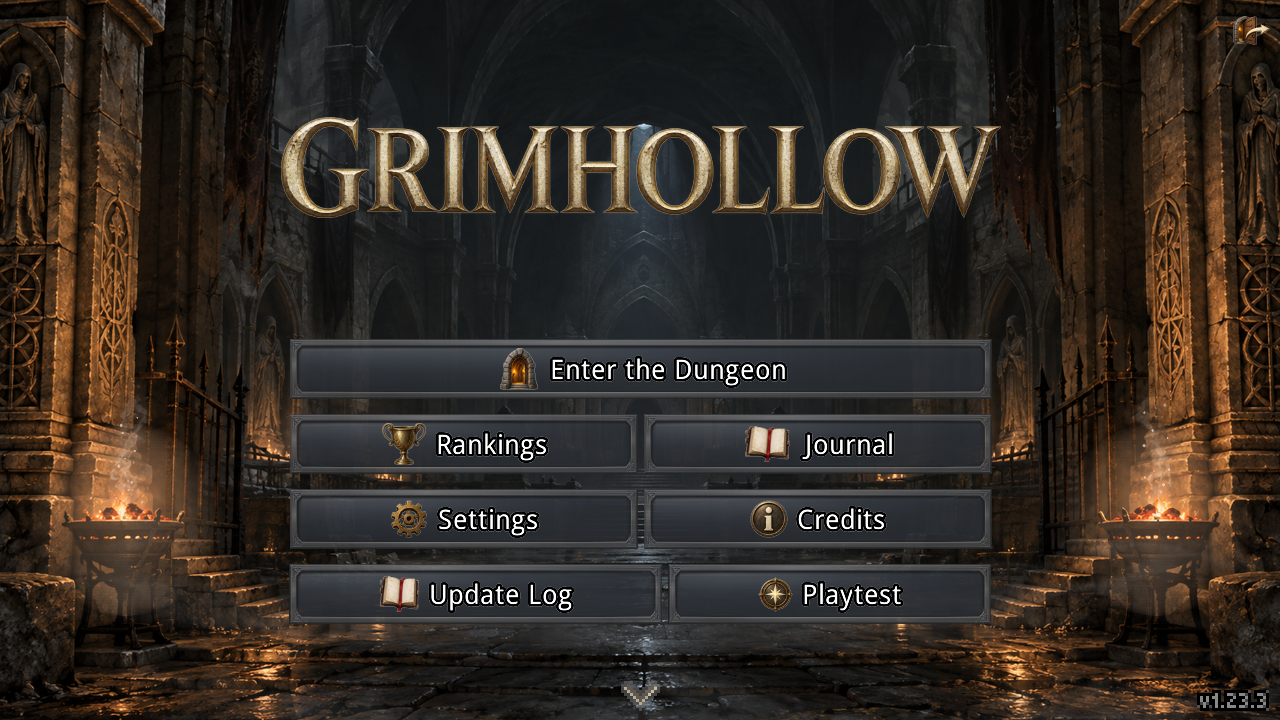
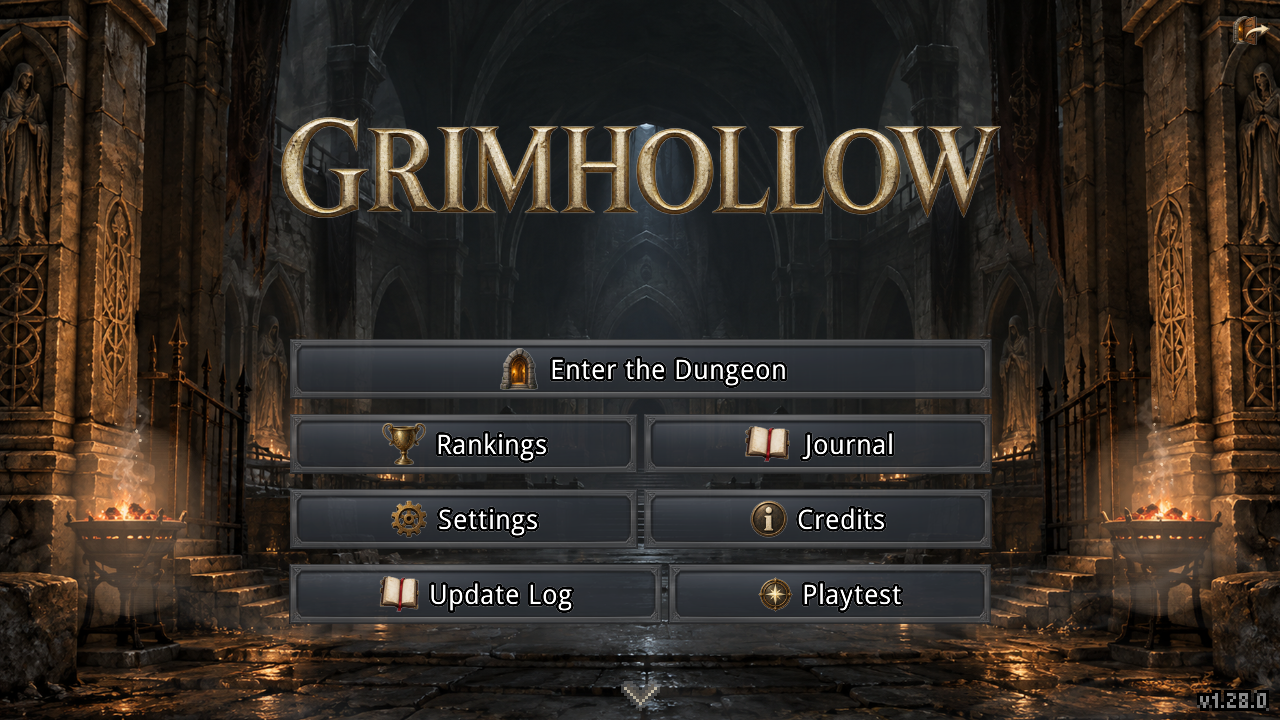
Release Bounty Board quest with native desktop and tablet validation

diff --git a/desktop/src/main/java/com/shatteredpixel/shatteredpixeldungeon/desktop/DesktopSmokeProbe.java b/desktop/src/main/java/com/shatteredpixel/shatteredpixeldungeon/desktop/DesktopSmokeProbe.java
@@ -34,6 +34,9 @@ final class DesktopSmokeProbe extends ShatteredPixelDungeon {
     private final boolean interfaceReview=Boolean.getBoolean("grimhollow.interfaceReview");
     private final boolean expeditionReview=Boolean.getBoolean("grimhollow.expeditionReview");
     private final boolean horrorReview=Boolean.getBoolean("grimhollow.horrorReview");
+    private final boolean bountyReview=Boolean.getBoolean("grimhollow.bountyReview");
+    private int bountyStep;
+    private com.shatteredpixel.shatteredpixeldungeon.actors.mobs.npcs.Cole bountyCole;
     private int horrorFrames, horrorStep, horrorStart, horrorHealth;
     private com.shatteredpixel.shatteredpixeldungeon.actors.mobs.LurkingHorror reviewHorror;
     private boolean[] horrorFov, horrorVisited, horrorMapped;
@@ -177,6 +180,7 @@ final class DesktopSmokeProbe extends ShatteredPixelDungeon {
             else {
                 Dungeon.seed=Long.getLong("grimhollow.seed",417L);
                 Dungeon.init();
+                if(bountyReview)Dungeon.depth=7;
                 if(roomReview)prepareRooms(0);
                 else Dungeon.switchLevel(Dungeon.newLevel(),-1);
                 if(Boolean.getBoolean("grimhollow.renderPoc"))pocRoom();
@@ -224,6 +228,93 @@ final class DesktopSmokeProbe extends ShatteredPixelDungeon {
             System.out.println("PASS: "+(vault?"Vault":"Sewer")+" scene renders with dynamic lighting on and off.");
             Gdx.app.exit();
         }
+    }
+
+    /** Quest coverage inside the existing native fixture, using real mouse/touch input. */
+    private void bountyTick(){
+        {
+            int step=bountyStep++;
+            if(step==0){
+                Playtest.enable();Dungeon.hero.HT=Dungeon.hero.HP=1000;Dungeon.hero.lvl=30;Dungeon.gold=30000;
+                for(com.shatteredpixel.shatteredpixeldungeon.actors.mobs.Mob m:Dungeon.level.mobs)if(m instanceof com.shatteredpixel.shatteredpixeldungeon.actors.mobs.npcs.Cole)bountyCole=(com.shatteredpixel.shatteredpixeldungeon.actors.mobs.npcs.Cole)m;
+                if(bountyCole==null)throw new AssertionError("Generated office has no Cole");
+                for(int n:com.watabou.utils.PathFinder.NEIGHBOURS8)if(Dungeon.level.passable[bountyCole.pos+n]&&Actor.findChar(bountyCole.pos+n)==null){Dungeon.hero.pos=bountyCole.pos+n;break;}
+                Dungeon.hero.sprite.place(Dungeon.hero.pos);Dungeon.observe();Camera.main.snapTo(Dungeon.hero.sprite.center());return;
+            }
+            if(step<=18){HeroClass hero=HeroClass.values()[(step-1)/2];
+                if(step%2==1){if(step==1)capture("bounty-office");closeReviewWindows();Dungeon.hero.heroClass=hero;bountyCole.interact(Dungeon.hero);}
+                else{interfaceBounds();checkReviewText(Game.scene());if(!allReviewText(Game.scene()).contains(com.shatteredpixel.shatteredpixeldungeon.messages.Messages.get(bountyCole,"greet_"+hero.name())))throw new AssertionError("Missing greeting "+hero);capture("bounty-greet-"+hero.name().toLowerCase());}return;
+            }
+            if(step<=32){int species=(step-19)/2;
+                if(step%2==1){closeReviewWindows();BountyBoard.Contract c=new BountyBoard.Contract();c.index=species>=5?3:species==2?2:0;c.species=species;c.floor=species>=5?10:8;c.payment=c.index==2?0:600;GameScene.show(new com.shatteredpixel.shatteredpixeldungeon.windows.WndBountyContract(c));}
+                else{interfaceBounds();checkReviewText(Game.scene());capture("bounty-poster-"+species);scrollReview(Game.scene());}return;
+            }
+            switch(step){
+                case 33:closeReviewWindows();BountyBoard.contracts[0].floor=7;GameScene.show(new com.shatteredpixel.shatteredpixeldungeon.windows.WndBountyContract(BountyBoard.contracts[0]));break;
+                case 34:playtestClick(com.shatteredpixel.shatteredpixeldungeon.messages.Messages.get(bountyCole,"accept"));break;
+                case 35:
+                    if(!BountyBoard.contracts[0].accepted||!com.shatteredpixel.shatteredpixeldungeon.items.quest.Warrant.ownedContract(0))throw new AssertionError("Native acceptance failed");
+                    bountySealCheck();
+                    GameScene.show(new com.shatteredpixel.shatteredpixeldungeon.windows.WndUseItem(null,Dungeon.hero.belongings.getItem(com.shatteredpixel.shatteredpixeldungeon.items.quest.Warrant.class)));break;
+                case 36:interfaceBounds();capture("bounty-warrant");closeReviewWindows();GameScene.show(new com.shatteredpixel.shatteredpixeldungeon.windows.WndInfoMob(bountyCole));break;
+                case 37:
+                    interfaceBounds();capture("bounty-cole-description");
+                    for(com.watabou.noosa.Gizmo child:new java.util.ArrayList<>(RecoveryChecks.members(Game.scene())))if(child instanceof com.shatteredpixel.shatteredpixeldungeon.windows.WndInfoMob){Object title=RecoveryChecks.field(child,"titlebar");pointerGestureReview(RecoveryChecks.field(title,"artworkButton"),Boolean.getBoolean("grimhollow.interfacePortrait")?com.watabou.input.PointerEvent.NONE:com.watabou.input.PointerEvent.LEFT,0);break;}break;
+                case 38:
+                    interfaceBounds();boolean enlarged=false;for(com.watabou.noosa.Gizmo child:RecoveryChecks.members(Game.scene()))if(child instanceof com.shatteredpixel.shatteredpixeldungeon.windows.WndArtwork)enlarged=true;
+                    if(!enlarged)throw new AssertionError("Cole image did not open artwork viewer");capture("bounty-cole-artwork");closeReviewWindows();
+                    for(com.shatteredpixel.shatteredpixeldungeon.items.Heap h:Dungeon.level.heaps.valueList())if(BountyBoard.owns(h)&&h.coleSlot==0){GameScene.show(new com.shatteredpixel.shatteredpixeldungeon.windows.WndTradeItem(h));break;}break;
+                case 39:interfaceBounds();capture("bounty-shop");playtestClick(com.shatteredpixel.shatteredpixeldungeon.messages.Messages.get(com.shatteredpixel.shatteredpixeldungeon.windows.WndTradeItem.class,"buy",200));break;
+                case 40:if(BountyBoard.stock[0]!=null)throw new AssertionError("Native purchase failed");closeReviewWindows();GameScene.show(new com.shatteredpixel.shatteredpixeldungeon.windows.WndJournal());break;
+                case 41:interfaceBounds();capture("bounty-journal");closeReviewWindows();com.shatteredpixel.shatteredpixeldungeon.windows.WndPlaytest.quests();break;
+                case 42:menuEntry("Cole and Bounty Board");menuEntry("Bounty balance controls");menuEntry("Hunter crews and Cole combat");menuEntry("Cole Bolas ammunition: 2");break;
+                case 43:interfaceBounds();capture("bounty-tuning-input");playtestInput("3","Apply");break;
+                case 44:
+                    if(BalanceTuning.get(BalanceTuning.Key.COLE_BOLAS)!=3)throw new AssertionError("Native tuning failed");BalanceTuning.setShared(BalanceTuning.Key.COLE_BOLAS,2);closeReviewWindows();BountyBoard.betrayed=true;BountyBoard.arrive(Dungeon.level);
+                    for(int i=0;i<3;i++){BountyBoard.crews[i].complete=true;com.shatteredpixel.shatteredpixeldungeon.items.quest.Warrant.hunter(i).collect(Dungeon.hero.belongings.backpack);}BountyBoard.showSettlement(3);break;
+                case 45:interfaceBounds();checkReviewText(Game.scene());for(com.shatteredpixel.shatteredpixeldungeon.items.Item item:BountyBoard.settlementThree)if(!allReviewText(Game.scene()).contains(com.shatteredpixel.shatteredpixeldungeon.messages.Messages.titleCase(item.title())))throw new AssertionError("Missing professional item name");capture("bounty-professional-offers");closeReviewWindows();BountyBoard.showSettlement(2);break;
+                case 46:interfaceBounds();checkReviewText(Game.scene());for(com.shatteredpixel.shatteredpixeldungeon.items.Item item:BountyBoard.settlementTwo)if(!allReviewText(Game.scene()).contains(com.shatteredpixel.shatteredpixeldungeon.messages.Messages.titleCase(item.title())))throw new AssertionError("Missing negotiated item name");capture("bounty-negotiated-offers");closeReviewWindows();break;
+                default:
+                    if(step>=47&&step<65){HeroClass hero=HeroClass.values()[(step-47)/2];
+                        if(step%2==1){closeReviewWindows();Dungeon.hero.heroClass=hero;GameScene.show(new com.shatteredpixel.shatteredpixeldungeon.windows.WndBountyBetrayal(bountyCole));}
+                        else{interfaceBounds();checkReviewText(Game.scene());capture("bounty-betray-"+hero.name().toLowerCase());scrollReview(Game.scene());}
+                    }else if(step>=65&&step<71){
+                        int choice=(step-65)/3,phase=(step-65)%3;
+                        if(phase==0){
+                            closeReviewWindows();questField(GameScene.class,"scene",null);Dungeon.init();Playtest.enable();Dungeon.hero.HT=Dungeon.hero.HP=1000;Dungeon.hero.lvl=30;Dungeon.depth=10;
+                            BountyBoard.planContracts();BountyBoard.contracts[0].returned=BountyBoard.contracts[1].returned=true;BountyBoard.bossChoice=choice;BountyBoard.planBoss();
+                            Dungeon.switchLevel(Dungeon.newLevel(),-1);if(!BountyBoard.accept(3))throw new AssertionError("Actual boss contract failed");InterlevelScene.mode=InterlevelScene.Mode.DESCEND;switchNoFade(GameScene.class);
+                        }else if(phase==1){
+                            com.shatteredpixel.shatteredpixeldungeon.levels.PrisonBossLevel level=(com.shatteredpixel.shatteredpixeldungeon.levels.PrisonBossLevel)Dungeon.level;
+                            level.progress();level.progress();level.progress();
+                        }else{
+                            com.shatteredpixel.shatteredpixeldungeon.levels.PrisonBossLevel level=(com.shatteredpixel.shatteredpixeldungeon.levels.PrisonBossLevel)Dungeon.level;
+                            level.bountyBoss().HP=0;level.progress();boolean mask=false;
+                            for(com.shatteredpixel.shatteredpixeldungeon.items.Heap heap:level.heaps.valueList())for(com.shatteredpixel.shatteredpixeldungeon.items.Item item:heap.items)if(item instanceof com.shatteredpixel.shatteredpixeldungeon.items.TengusMask)mask=true;
+                            if(!mask||!BountyBoard.contracts[3].complete||level.state()!=com.shatteredpixel.shatteredpixeldungeon.levels.PrisonBossLevel.State.WON)throw new AssertionError("Actual boss reward/progression lost "+choice);
+                            capture("bounty-boss-"+choice);
+                        }
+                    }else if(step==71){closeReviewWindows();GameScene.show(new com.shatteredpixel.shatteredpixeldungeon.windows.WndBountyContract(BountyBoard.contracts[3]));}
+                    else if(step==72){interfaceBounds();checkReviewText(Game.scene());capture("bounty-completed-poster");}
+                    else{closeReviewWindows();System.out.println("BOUNTY UI PASS: all nine greetings/betrayals, seven painted posters and completion stamp, mouse/touch acceptance and purchase, unseen/invisible wanted-seal suppression, Warrant/journal/artwork, tuning, settlements and both actual boss deaths/mask rewards; failures=0");Gdx.app.exit();}
+            }
+        }
+    }
+
+    private void bountySealCheck(){
+        com.shatteredpixel.shatteredpixeldungeon.actors.mobs.Mob mob=BountyBoard.contracts[0].target;
+        if(mob==null||mob.sprite==null)throw new AssertionError("Accepted target not placed");
+        boolean fov=Dungeon.level.heroFOV[mob.pos],shown=mob.sprite.visible;int hidden=mob.invisible,index=mob.bountyContract;
+        com.shatteredpixel.shatteredpixeldungeon.ui.CharHealthIndicator indicator=new com.shatteredpixel.shatteredpixeldungeon.ui.CharHealthIndicator(mob);
+        try{
+            mob.sprite.visible=true;mob.invisible=0;Dungeon.level.heroFOV[mob.pos]=false;indicator.update();
+            com.watabou.noosa.Image seal=(com.watabou.noosa.Image)RecoveryChecks.field(indicator,"wantedSeal");
+            if(seal.visible)throw new AssertionError("Wanted seal reveals an unseen target");
+            Dungeon.level.heroFOV[mob.pos]=true;
+            for(int rarity=0;rarity<3;rarity++){mob.bountyContract=rarity;indicator.update();if(!seal.visible)throw new AssertionError("Missing visible wanted seal "+rarity);}
+            mob.invisible=1;indicator.update();if(seal.visible)throw new AssertionError("Wanted seal reveals invisible target");
+            mob.invisible=0;mob.sprite.visible=false;indicator.update();if(seal.visible)throw new AssertionError("Wanted seal reveals hidden sprite");
+        }finally{Dungeon.level.heroFOV[mob.pos]=fov;mob.sprite.visible=shown;mob.invisible=hidden;mob.bountyContract=index;indicator.killAndErase();}
     }
 
     /** Exercise actual selection buttons and their read-only progression windows. */
@@ -467,6 +558,7 @@ final class DesktopSmokeProbe extends ShatteredPixelDungeon {
 
     /** Review actual inventory, scrolling descriptions and class controls in both orientations. */
     private void interfaceTick() {
+        if(bountyReview){if(Game.scene() instanceof GameScene&&frames>=220&&frames%20==0)bountyTick();return;}
         if(Boolean.getBoolean("grimhollow.artworkReview")){
             // Run the same artwork assertions independently of clipboard-heavy
             // Playtest coverage. Normal CI still executes the entire fixture.

diff --git a/core/src/main/java/com/shatteredpixel/shatteredpixeldungeon/BountyBoard.java b/core/src/main/java/com/shatteredpixel/shatteredpixeldungeon/BountyBoard.java
@@ -21,8 +21,8 @@ import com.watabou.utils.Random;
 /** One authoritative quest record, independent of floor files and physical claims. */
 public final class BountyBoard {
     private BountyBoard() {}
-    // Components remain isolated from ordinary runs until the full quest is integrated.
-    public static boolean AVAILABLE = false;
+    // New runs receive the quest; absent records in older saves remain absent.
+    public static boolean AVAILABLE = true;
     public static boolean present, shopClosed;
     public static final int OFFICE_DEPTH = 7;
     public static int officeCell = -1;
@@ -467,9 +467,27 @@ public final class BountyBoard {
     }
     public static void showSettlement(int count){
         planSettlements();Item[] items=count>=3?settlementThree:settlementTwo;
-        String[] labels=new String[items.length];for(int i=0;i<items.length;i++)labels[i]=items[i].toString()+" - "+(count>=3?Messages.get(Cole.class,"free"):settlementPrices[i]+" "+Messages.get(Cole.class,"gold"));
+        String[] labels=new String[items.length];for(int i=0;i<items.length;i++)labels[i]=Messages.titleCase(items[i].title())+"\n"+(count>=3?Messages.get(Cole.class,"free"):settlementPrices[i]+" "+Messages.get(Cole.class,"gold"));
         com.shatteredpixel.shatteredpixeldungeon.scenes.GameScene.show(new com.shatteredpixel.shatteredpixeldungeon.windows.WndOptions(
                 Messages.get(Cole.class,"settlement"),Messages.get(Cole.class,"choose_prize"),labels){
+            @Override protected void layoutBody(float pos,String message,String... options){
+                int width= com.shatteredpixel.shatteredpixeldungeon.scenes.PixelScene.landscape()?180:160;
+                width=Math.min(width,(int)com.shatteredpixel.shatteredpixeldungeon.scenes.PixelScene.uiCamera.width-32);
+                com.shatteredpixel.shatteredpixeldungeon.ui.RenderedTextBlock body=com.shatteredpixel.shatteredpixeldungeon.scenes.PixelScene.renderTextBlock(6);
+                body.text(message,width);body.setPos(0,pos);add(body);pos=body.bottom()+4;
+                for(int i=0;i<options.length;i++){
+                    final int index=i;
+                    com.shatteredpixel.shatteredpixeldungeon.ui.RedButton button=new com.shatteredpixel.shatteredpixeldungeon.ui.RedButton(options[i],6){
+                        @Override protected void onClick(){hide();onSelect(index);}
+                    };
+                    button.multiline=true;button.setRect(0,pos,width-24,28);button.enable(enabled(i));add(button);
+                    com.shatteredpixel.shatteredpixeldungeon.ui.IconButton info=new com.shatteredpixel.shatteredpixeldungeon.ui.IconButton(com.shatteredpixel.shatteredpixeldungeon.ui.Icons.get(com.shatteredpixel.shatteredpixeldungeon.ui.Icons.INFO)){
+                        @Override protected void onClick(){onInfo(index);}
+                    };
+                    info.setRect(width-24,pos,24,28);add(info);pos+=30;
+                }
+                resize(width,(int)pos-2);
+            }
             @Override protected boolean hasInfo(int i){return true;}
             @Override protected void onInfo(int i){com.shatteredpixel.shatteredpixeldungeon.scenes.GameScene.show(new com.shatteredpixel.shatteredpixeldungeon.windows.WndInfoItem(items[i]));}
             @Override protected boolean enabled(int i){return count>=3||Dungeon.gold>=settlementPrices[i];}

diff --git a/core/src/main/java/com/shatteredpixel/shatteredpixeldungeon/ui/changelist/GrimhollowChanges.java b/core/src/main/java/com/shatteredpixel/shatteredpixeldungeon/ui/changelist/GrimhollowChanges.java
@@ -20,7 +20,12 @@ public final class GrimhollowChanges {
         release.addButton(new ChangeButton(icon.get(),title,text));
     }
     public static void addAllChanges(ArrayList<ChangeInfo> list) {
-        ChangeInfo r=release(list,"v1.27.0","See the dungeon's paintings up close.");
+        ChangeInfo r=release(list,"v1.28.0","A name on a poster. A hunter who keeps his promises.");
+        note(r,Icons.JOURNAL,"Cole's Bounty Board","Find Cole in his old Prison office. Read the posters and choose which contracts to sign; an unsigned contract never summons its quarry. His finite shop asks a steep price for good equipment. Some names on the board are best approached carefully.");
+        note(r,Icons.INFO,"Promises and Warrants","Named wanted creatures, painted posters, physical Warrants and journal notes follow your accepted jobs. A swift hand may earn a fuller purse. The boss poster matches the prison's actual jailer, and Cole has one last contract to discuss afterward.");
+        note(r,Icons.TALENT,"Hunter's equipment","Bloodmarked Brands and the Warden's Coat join the dungeon's equipment. Later hunters carry their own Warrants; what you bring back to Cole determines the terms he will offer. Each ending has a cosmetic badge.");
+        note(r,Icons.PREFS,"Quest testing","Quests > Cole and Bounty Board groups status, travel and tuning. Prices, contract terms, wanted creatures, hunter crews, Cole's finite supplies and the new equipment can be tuned without resetting progress or duplicating prizes. New games receive the complete quest; older saves retain their existing maps.");
+        r=release(list,"v1.27.0","See the dungeon's paintings up close.");
         note(r,Icons.MAGNIFY,"Artwork inspection","Tap an image or its small magnifying lens in an examination window to see a larger painting. Close it to return to the same description. Items, creatures, plants, traps, terrain, skills and journal notes support inspection, with sharper exports from the original paintings where available.");
         r=release(list,"v1.26.0","More mystery, clearer companions and organized testing tools.");
         note(r,Icons.INFO,"Rediscover the dungeon","Descriptions of Grimhollow's additions now favor atmosphere and useful hints over formulas and hidden reward tables. Actions and current conditions remain readable.");

diff --git a/core/src/main/java/com/shatteredpixel/shatteredpixeldungeon/windows/WndBountyContract.java b/core/src/main/java/com/shatteredpixel/shatteredpixeldungeon/windows/WndBountyContract.java
@@ -9,6 +9,15 @@ import com.shatteredpixel.shatteredpixeldungeon.scenes.PixelScene;
 public class WndBountyContract extends WndTitledMessage {
     public WndBountyContract(BountyBoard.Contract c) {
         super(poster(c), c.title(), text(c));
+        if(c.index<3){
+            com.watabou.noosa.Image seal=new com.watabou.noosa.Image("interfaces/bounty_seals.png");
+            seal.frame(new com.watabou.noosa.TextureFilm(seal.texture,64,64).get(c.index));
+            seal.logicalSize(9,9);seal.x=20;seal.y=18;titlebar.add(seal);
+        }
+        if(c.complete){
+            com.watabou.noosa.Image stamp=com.shatteredpixel.shatteredpixeldungeon.ui.Icons.get(com.shatteredpixel.shatteredpixeldungeon.ui.Icons.CHECKED);
+            stamp.logicalSize(10,10);stamp.x=19;stamp.y=18;stamp.angle=-12;titlebar.add(stamp);
+        }
         RedButton action = new RedButton(Messages.get(Cole.class, c.complete ? "return" : "accept")) {
             @Override protected void onClick() {
                 hide(); if (c.complete) BountyBoard.returnClaim(c.index); else BountyBoard.accept(c.index);

diff --git a/CHANGES.md b/CHANGES.md
@@ -1,3 +1,13 @@
+# Bounty Board v1.28.0 / component 7 - 2026-10-06
+
+- Enabled the complete quest for new games, retaining an absent-quest default for older saves. Added the home-screen Update Log entry, packaged Windows launcher and Android APK, and native landscape/mouse and portrait/touch review captures under `verification/interface/{orientation}/bounty-*.png`.
+- Posters have painted rarity seals and a completion stamp. Settlement offers show localized item names, upgrades and fixed prices with inspection controls; object identity strings were corrected during visual review. Wanted seals are suppressed outside current sight and on invisible creatures.
+- `gradlew.bat core:test core:smokeRun desktop:dist android:assembleDebug --no-daemon --console=plain` passed: unit tests, all six Bounty components and the combined `Runs=30 failures=0` gate. Separate Necromancer, Enchanter and Psychic gates each passed `Runs=10 failures=0` during integration.
+- The existing native fixture passed both orientations: all nine greetings/betrayals, all seven matching posters, mouse/touch acceptance and purchase, physical Warrant/journal/artwork, tuning, settlement offers and wanted-seal visibility. Real Tengu and Chainwarden arena deaths each completed the accepted boss contract and retained the mask reward and normal progression.
+- Offline art verification passed: `PAINTED assets=1299 source sheets=166 failures=0`; provenance test 44 had zero failures. Compiled-handler/network audit passed: `classes=3036 guarded browser sinks=1 HTTP/socket calls=0 failures=0`. The native Bounty fixture is included in the existing CI interface step; all previous checks remain. Exact-head CI status is reported at delivery.
+- Corrected test-fixture window mutation and stale scene references after failing attempts; the first office capture now waits for the relocated camera to render. The audit uses a stable copy of the JAR to avoid a build replacing its input. No failed attempt is represented as passing. No parallel verification harness was added and terrain contrast test 45 remains abandoned.
+- Physical Samsung tablet review and full campaign economy/combat balance remain human playtesting. The documented defaults are initial values, exposed in the persistent Playtest submenu without relaxing one-time claims, loot or badge rules.
+
 # Bounty Board component 6 - 2026-10-06
 
 - Added seeded two-Warrant discounted choices and three-Warrant superior free choices, quoted from the deepest main region when offered and paid once. Cole's real death releases only accepted unpaid cash, including unfinished base claims, alongside one seeded equipment prize and finite unused supplies.

diff --git a/README.md b/README.md
@@ -1,3 +1,13 @@
+# Cole's Bounty Board - v1.28.0
+
+Cole opens his five-slot shop and Bounty Board on Prison floor 2 (global floor 7). Read a poster, then explicitly accept its contract to bring the wanted target into the dungeon. Warrants record his promises; the journal keeps the accepted jobs and later pursuit. The optional Legendary bounty carries the Warden's Coat, and Bloodmarked Brands join the equipment pool. The boss contract follows the actual Prison boss. The longer quest offers four mutually exclusive cosmetic outcomes.
+
+Start a new game for the complete quest. Older saves without its record keep their maps and do not acquire a retroactive office. Prices, ammunition, target identity, deadlines, payment receipts and settlement choices persist through revisits and reloads.
+
+**Playtest > Quests > Cole and Bounty Board** provides status, travel, the board and grouped balance controls. It retains submenu position and never resets reward receipts. Settings explain their defaults, ranges, and whether they affect future generation or current combat. Custom tuning and tools retain the existing ranking/badge exclusions.
+
+Windows: `desktop/build/windows/1.28.0/Grimhollow/Grimhollow.exe` (keep the whole folder). The existing desktop shortcut or `tools/play.bat` selects the latest packaged build. Android sideload: `android/build/outputs/apk/debug/android-debug.apk`. The quest design is in [BOUNTY_BOARD_SPEC.md](BOUNTY_BOARD_SPEC.md); painted sources and prompts are under `tools/painted/sources/bounty/` and [bounty-prompts.json](tools/painted/bounty-prompts.json). Native portrait and landscape review captures are under `verification/interface/` with the `bounty-` prefix. Physical Samsung tablet review and campaign balance remain with human playtesting.
+
 # Artwork inspection - v1.27.0
 
 Click or tap the picture (or its small magnifying lens) in an examination window to open a large framed preview. **Back to description**, Back/Escape or a tap outside returns to the same window. Items, creatures/NPCs, plants, traps, terrain, buffs, talents, abilities, journal notes and hero portraits support it. Looking at artwork spends no turns or charges and does not identify belongings.

diff --git a/KNOWN_ISSUES.md b/KNOWN_ISSUES.md
@@ -1,5 +1,8 @@
 # Known issues
 
+- v1.28.0: Cole's Bounty Board is complete for new runs; existing saves without quest data deliberately receive no retroactive office. Native portrait/touch checks and an Android build do not replace physical Samsung tablet review or a full player-driven bounty campaign. New dialogue uses English fallback where translations are unavailable; initial quest economy and combat budgets need campaign balance review.
+- v1.28.0 verification: native fixture window iteration and floor/scene lifecycle were corrected after failing attempts; settlement labels now use localized item titles rather than object identities. The compiled audit was rerun against a stable JAR after a concurrent rebuild replaced its input. These failed attempts are not counted as passing results.
+
 - v1.27.0: physical Samsung tablet review remains outstanding; native portrait mouse/touch fixtures are not a device test. Composite/retained small images without larger source detail use their exact shipped frame. Additional preview PNGs add about 73 MiB to the asset set and load only while open; new control text falls back to English in untranslated languages.
 - v1.27.0 verification: sandboxed Gradle could not access C:\.android; the existing authorized escalation route built successfully. Initial fixture compilation missed its local Crystal reference, then passed after correction. Creature artwork input priority is corrected. Full local interface attempts also encountered Windows clipboard contention in the existing issue-copy check, including a sequential retry; isolated artwork checks pass both orientations through the same fixture. Full CI retains every clipboard and interface assertion; no failed attempt is counted as passing.
 
